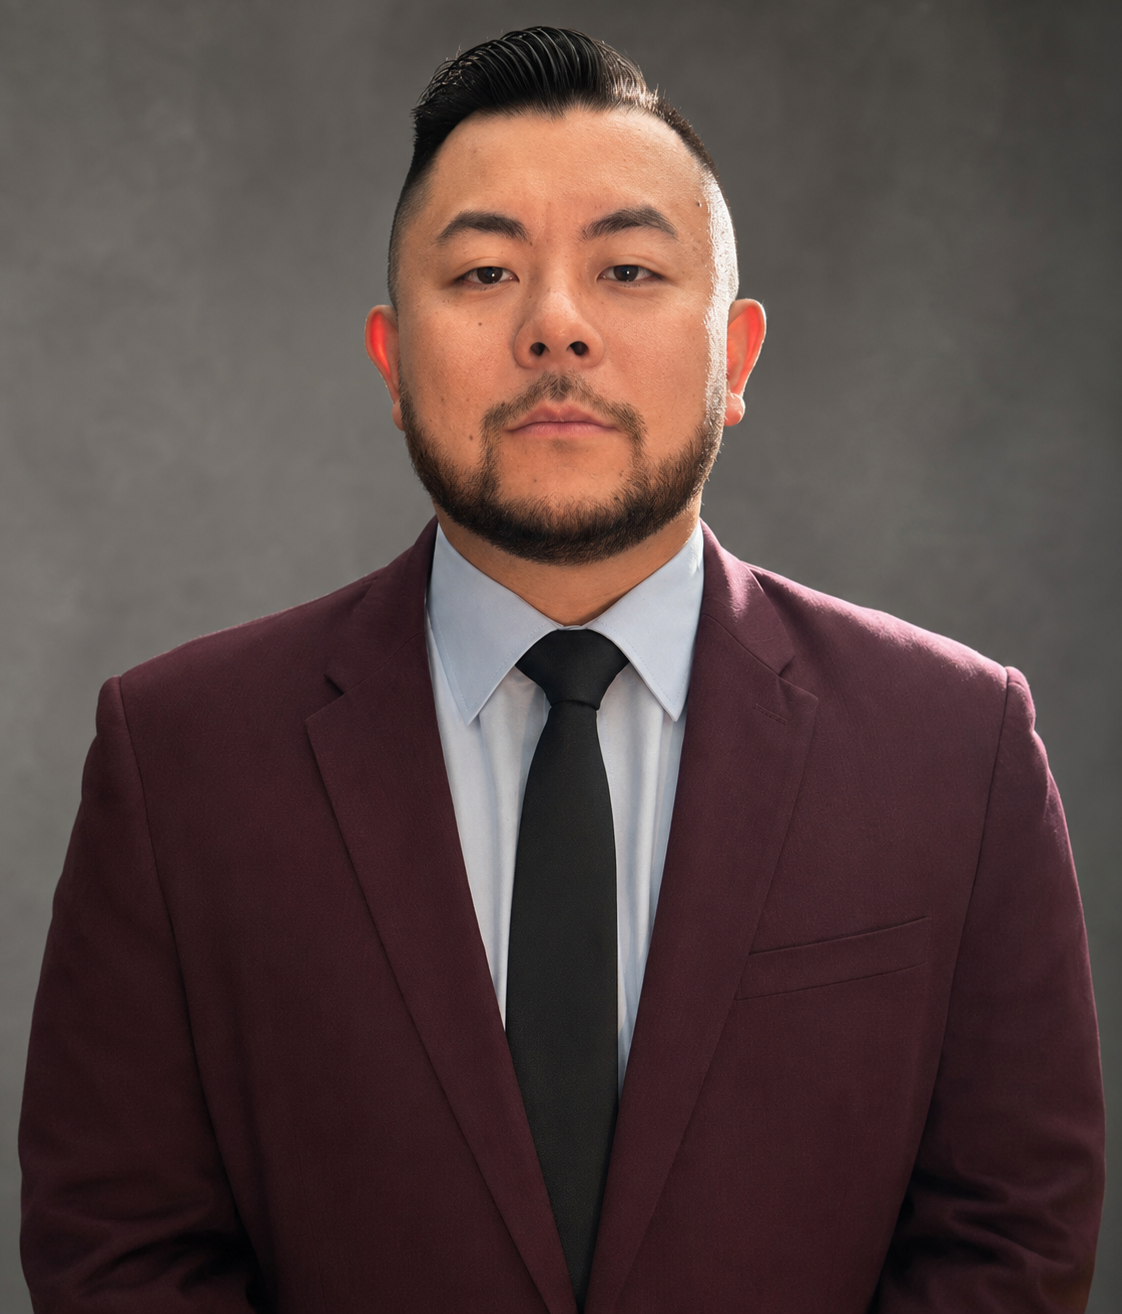
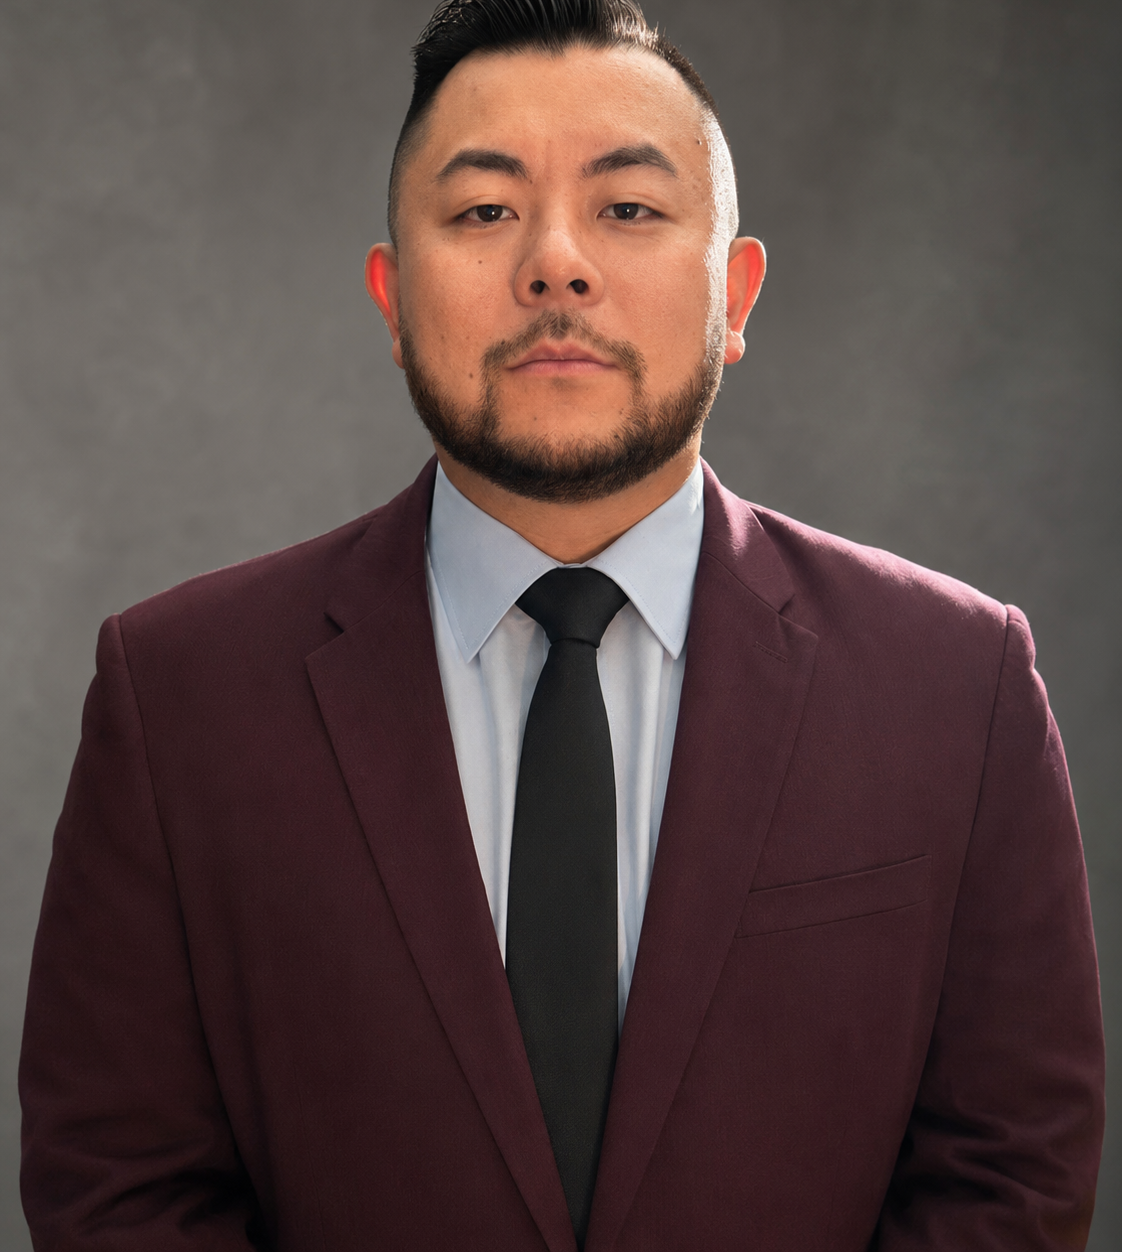
Polish hero portrait and mobile CTA

diff --git a/app/globals.css b/app/globals.css
@@ -174,13 +174,13 @@ button, a { -webkit-tap-highlight-color: transparent; }
   grid-template-columns: minmax(0, 1fr) 430px;
   align-items: stretch;
   gap: 70px;
-  min-height: 710px;
+  min-height: 640px;
 }
 
 .hero-copy {
   align-self: center;
   max-width: 760px;
-  padding: 92px 0 76px;
+  padding: 58px 0 48px;
 }
 
 .eyebrow {
@@ -200,13 +200,13 @@ h1, h2, h3 {
   line-height: 1;
 }
 
-h1 { font-size: 5.65rem; }
+h1 { font-size: 4.95rem; }
 h2 { font-size: 4rem; }
 h3 { font-size: 1.62rem; }
 
 .hero-lede {
   max-width: 650px;
-  margin: 26px 0 34px;
+  margin: 20px 0 24px;
   color: rgba(255, 255, 255, .82);
   font-size: 1.16rem;
 }
@@ -222,7 +222,7 @@ h3 { font-size: 1.62rem; }
   flex-wrap: wrap;
   gap: 10px;
   max-width: 720px;
-  margin-top: 30px;
+  margin-top: 20px;
 }
 
 .quick-actions button {
@@ -266,7 +266,7 @@ h3 { font-size: 1.62rem; }
   display: flex;
   align-items: flex-end;
   justify-content: center;
-  min-height: 710px;
+  min-height: 640px;
   overflow: hidden;
   background: linear-gradient(180deg, rgba(255, 250, 242, .08), rgba(255, 250, 242, .02));
   border-left: 1px solid rgba(217, 206, 192, .16);
@@ -1019,7 +1019,7 @@ h3 { font-size: 1.62rem; }
   .nav { gap: 16px; }
   .nav-cta { display: none; }
   .hero-grid { grid-template-columns: 1fr 360px; gap: 42px; }
-  h1 { font-size: 4.55rem; }
+  h1 { font-size: 4rem; }
   h2 { font-size: 3.3rem; }
   .service-grid,
   .service-grid-wide,
@@ -1062,13 +1062,13 @@ h3 { font-size: 1.62rem; }
     gap: 0;
     min-height: auto;
   }
-  .hero-copy { padding: 64px 0 34px; }
+  .hero-copy { padding: 50px 0 28px; }
   .hero-portrait {
     min-height: 560px;
     border-top: 1px solid rgba(217, 206, 192, .16);
   }
   .hero-portrait img { height: 100%; }
-  h1 { font-size: 3.72rem; }
+  h1 { font-size: 3.18rem; }
   h2 { font-size: 2.82rem; }
   .attorney-section { padding-bottom: 78px; }
   .attorney-image,
@@ -1089,10 +1089,10 @@ h3 { font-size: 1.62rem; }
   .button,
   .hero-actions .button,
   .intake-form .button { width: 100%; }
-  h1 { font-size: 3rem; }
+  h1 { font-size: 2.68rem; }
   h2 { font-size: 2.35rem; }
   h3 { font-size: 1.42rem; }
-  .hero-copy { padding-top: 48px; }
+  .hero-copy { padding-top: 42px; }
   .hero-portrait { min-height: 460px; }
   .hero-portrait img { height: 100%; }
   .portrait-caption {
@@ -1152,5 +1152,6 @@ h3 { font-size: 1.62rem; }
     letter-spacing: .04em;
     text-transform: uppercase;
   }
+  body { padding-bottom: 82px; }
   .footer { padding-bottom: 96px; }
 }
